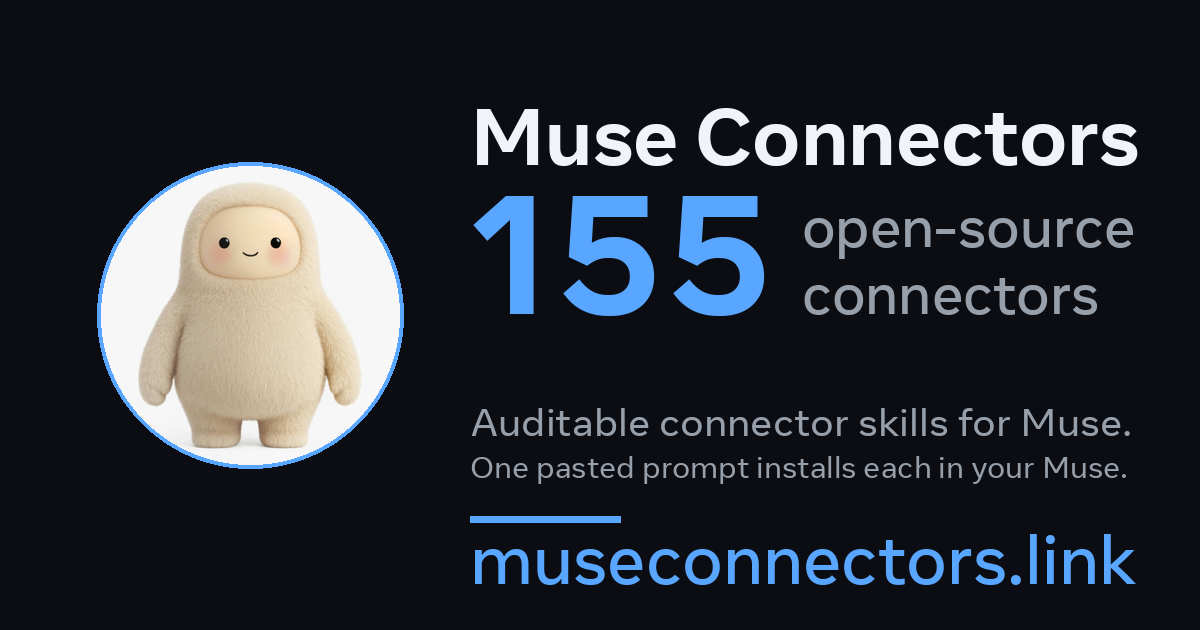
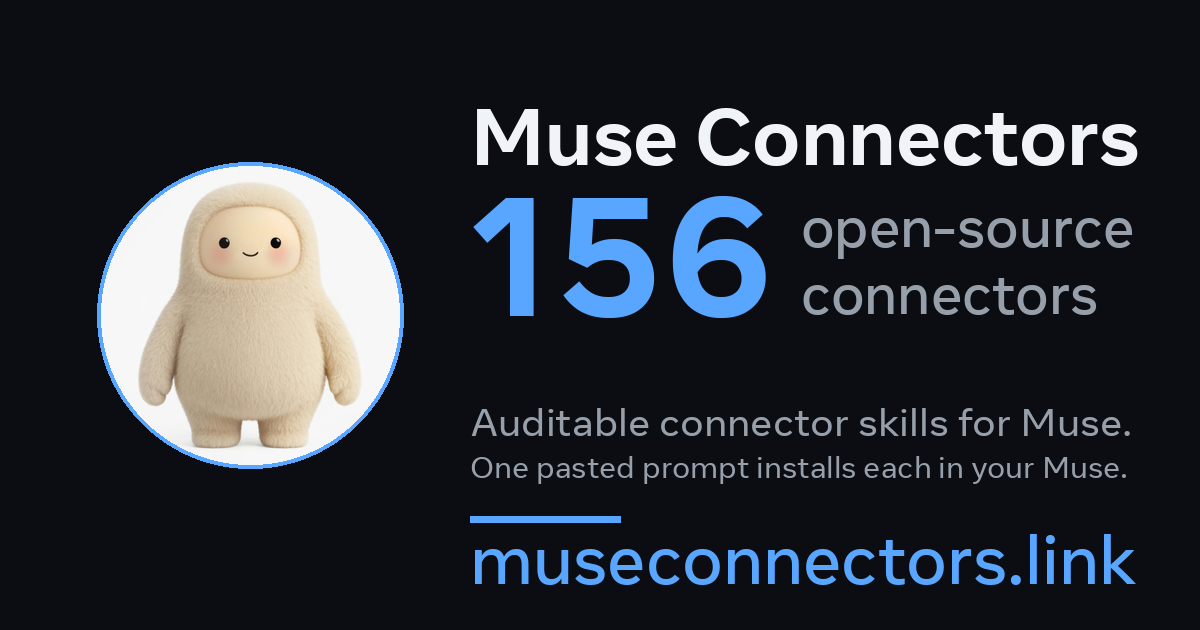
batch I: add doordash connector wrapping official dd-cli (156 total)

diff --git a/connectors/doordash/bin/doordash.py b/connectors/doordash/bin/doordash.py
@@ -1,0 +1,105 @@
+#!/usr/bin/env python3
+"""Thin wrapper around DoorDash's official dd-cli (github.com/doordash-oss/doordash-cli).
+
+Only invokes the real dd-cli binary installed by the user; never reimplements it.
+Order submission is confirm-gated: any passthrough containing submit-like verbs
+requires --confirm carrying the exact order total from the price preview.
+"""
+import json
+import os
+import re
+import shutil
+import subprocess
+import sys
+
+SUBMIT_PATTERN = re.compile(r"submit|place-order", re.IGNORECASE)
+
+
+def fail(msg):
+    print(json.dumps({"ok": False, "error": msg}))
+    sys.exit(1)
+
+
+def ddcli_path():
+    p = shutil.which("dd-cli")
+    if not p:
+        fail("dd-cli not found on PATH. Install it from https://github.com/doordash-oss/doordash-cli "
+             "(releases page, verify the SHA256 checksum) and run `dd-cli login` first.")
+    return p
+
+
+def run_ddcli(args):
+    try:
+        proc = subprocess.run([ddcli_path()] + args, capture_output=True, text=True, timeout=120)
+    except subprocess.TimeoutExpired:
+        fail("dd-cli timed out after 120s")
+    return proc
+
+
+def cmd_auth(_args):
+    ddcli_path()
+    authed = bool(os.environ.get("DD_CLI_ACCESS_TOKEN"))
+    # A cheap, documented read to probe the session; failure text is surfaced, not hidden.
+    probe = run_ddcli(["search", "--query", "coffee", "--help"])
+    print(json.dumps({
+        "ok": True,
+        "dd_cli": ddcli_path(),
+        "access_token_env": authed,
+        "note": "binary present; " + ("DD_CLI_ACCESS_TOKEN is set" if authed else
+                 "no DD_CLI_ACCESS_TOKEN in env: run `dd-cli login` on this machine, or export a token via `dd-cli export-token` elsewhere"),
+        "probe_help_rc": probe.returncode,
+    }))
+
+
+def cmd_search(args):
+    if not args.get("query"):
+        fail("search requires --query")
+    # dd-cli >= v0.2.2 requires --intent on all tool-backed commands.
+    proc = run_ddcli(["search", "--intent", "muse-connectors: search restaurants",
+                      "--query", args["query"]])
+    print(json.dumps({"ok": proc.returncode == 0, "stdout": proc.stdout[-4000:], "stderr": proc.stderr[-1000:]}))
+
+
+def cmd_history(_args):
+    # dd-cli >= v0.2.2 requires --intent on all tool-backed commands.
+    proc = run_ddcli(["order", "history", "--intent",
+                      "muse-connectors: read order history"])
+    print(json.dumps({"ok": proc.returncode == 0, "stdout": proc.stdout[-4000:], "stderr": proc.stderr[-1000:]}))
+
+
+def cmd_run(args):
+    passthrough = args.get("passthrough", [])
+    confirm = args.get("confirm")
+    joined = " ".join(passthrough)
+    if SUBMIT_PATTERN.search(joined) and not confirm:
+        fail("refusing to submit an order without --confirm carrying the exact order total from the price preview")
+    proc = run_ddcli(passthrough)
+    print(json.dumps({"ok": proc.returncode == 0, "stdout": proc.stdout[-4000:], "stderr": proc.stderr[-1000:]}))
+
+
+def parse(argv):
+    if not argv or argv[0] in ("-h", "--help"):
+        print(__doc__ + "\ncommands: auth | search --query Q | history | run [--confirm TEXT] -- <dd-cli args>")
+        return
+    cmd, rest = argv[0], argv[1:]
+    args = {"passthrough": [], "confirm": None, "query": None}
+    i = 0
+    passthrough_mode = False
+    while i < len(rest):
+        t = rest[i]
+        if t == "--":
+            passthrough_mode = True
+        elif passthrough_mode:
+            args["passthrough"].append(t)
+        elif t == "--confirm" and i + 1 < len(rest):
+            args["confirm"] = rest[i + 1]; i += 1
+        elif t == "--query" and i + 1 < len(rest):
+            args["query"] = rest[i + 1]; i += 1
+        else:
+            fail(f"unknown flag: {t}")
+        i += 1
+    {"auth": cmd_auth, "search": cmd_search, "history": cmd_history, "run": cmd_run}.get(cmd, lambda a: fail(f"unknown command: {cmd}"))(args)
+
+
+if __name__ == "__main__":
+    parse(sys.argv[1:])

diff --git a/connectors/doordash/SKILL.md b/connectors/doordash/SKILL.md
@@ -1,0 +1,57 @@
+---
+name: "doordash"
+description: "Order food and groceries from DoorDash via the official dd-cli (built for AI agents). Trigger phrases: doordash, order food, order lunch, food delivery, grocery order, dd-cli."
+metadata: { "includeInPrompt": true }
+tagline: "Order DoorDash food and groceries from the terminal with the official agent-first dd-cli."
+catalog_auth: "dd-cli login (waitlist-approved DoorDash account; US/Canada) or DD_CLI_ACCESS_TOKEN for headless use"
+catalog_hosts: ["github.com"]
+---
+
+# DoorDash
+
+## Purpose
+Order food and grocery delivery from DoorDash through `dd-cli`, DoorDash's official command-line tool, which DoorDash built specifically to be driven by AI agents with shell access. Reach for this when the user wants to order lunch, dinner, groceries, or anything else DoorDash delivers, without opening the app.
+
+## Tooling
+All commands go through `bin/doordash.py`, a thin wrapper around the official `dd-cli` binary:
+
+```bash
+bin/doordash.py auth                                  # verify dd-cli is installed and logged in
+bin/doordash.py search --query "ramen near me"        # search restaurants and stores
+bin/doordash.py history                               # past orders and receipts
+bin/doordash.py run -- <dd-cli args>                  # passthrough to dd-cli for everything else
+```
+
+`run` passes arguments straight to `dd-cli`, so any capability in the official README works: menu browsing, cart add/remove/view/delete, building a cart from a shopping list, promo codes, order price preview, tip, credits, scheduling (ASAP or ahead), pickup or delivery, priority or standard speed, work-benefit budgets, and re-creating a past order. If an argument looks like order submission (`submit`, `place-order`), the wrapper refuses unless `--confirm` is provided. Note: dd-cli v0.2.2+ requires `--intent "<who + goal>"` on tool-backed commands; add it to your `run` invocations.
+
+Typical flow:
+
+```bash
+bin/doordash.py search --query "burrito bowl near me"
+bin/doordash.py run -- menu --help                    # see current menu/cart subcommands
+bin/doordash.py run -- order preview --intent "lunch order" --help   # preview pricing before spending
+bin/doordash.py run -- order submit --intent "lunch order" --confirm "yes, $24.17 total to 123 Main St"
+```
+
+## Auth
+- Provider id: `doordash` (no API key is collected; auth lives in the user's own `dd-cli` session)
+- Collection: none in-repo. The user must:
+  1. Join the waitlist at https://forms.gle/gvCQZvu9C1EKA6aM6 (US/Canadian developers; full functionality needs an approved account).
+  2. Download `dd-cli` from the Releases page at https://github.com/doordash-oss/doordash-cli (`dd-cli-v<version>-darwin-arm64.tar.gz` for macOS Apple Silicon, `dd-cli-v<version>-linux-amd64.tar.gz` for glibc Linux x86_64), verify the published SHA256 checksum, extract, and follow `quickstart.txt`.
+  3. Run `dd-cli login` once. On headless machines (containers, cloud VMs) with no OS keychain, skip login and set `DD_CLI_ACCESS_TOKEN` to a token from `dd-cli export-token` on a signed-in machine.
+- Allowed hosts: `github.com` (release download; `dd-cli` manages its own DoorDash API traffic).
+- Status check: `bin/doordash.py auth` (must return `"ok": true`: binary present and a login session or `DD_CLI_ACCESS_TOKEN` detected).
+
+## Operating Rules
+1. Reads (`auth`, `search`, `history`, menu/cart inspection) need no confirmation.
+2. **Submitting an order always needs confirmation.** The wrapper refuses any submit-like passthrough unless `--confirm` is provided. Run the price preview first, show the user the itemized total (items, fees, tip) in plain words, and only submit after they approve it.
+3. Never submit an order the user did not explicitly approve, and never change the delivery address or payment method without asking.
+4. Without a waitlist-approved account, `dd-cli` installs but ordering stays locked; say so plainly instead of working around it.
+5. Never exfiltrate the session: do not print, log, or transmit `DD_CLI_ACCESS_TOKEN` or the contents of the dd-cli keychain entries.
+
+## Files
+- SKILL.md
+- bin/doordash.py
+
+## Maturity
+Draft: thin wrapper around DoorDash's official dd-cli (github.com/doordash-oss/doordash-cli); not live-tested end-to-end. The `--intent` requirement on dd-cli v0.2.2+ tool-backed commands comes from the official release notes.

diff --git a/README.md b/README.md
@@ -1,7 +1,7 @@
 # Muse Connectors
 
 [![MIT License](https://img.shields.io/badge/license-MIT-green)](LICENSE)
-[![Connectors](https://img.shields.io/badge/connectors-155-blue)](https://museconnectors.link/)
+[![Connectors](https://img.shields.io/badge/connectors-156-blue)](https://museconnectors.link/)
 [![PRs Welcome](https://img.shields.io/badge/PRs-welcome-brightgreen)](CONTRIBUTING.md)
 [![GitHub stars](https://img.shields.io/github/stars/bluman1/muse-connectors?style=social)](https://github.com/bluman1/muse-connectors/stargazers)
 
@@ -24,7 +24,7 @@ No app stores, no config files, no tokens in chat. How the one-paste install wor
 
 ## Catalog
 
-All 155 connectors, searchable with one-click install prompts, at **https://museconnectors.link/**. Each name links straight to its detail page.
+All 156 connectors, searchable with one-click install prompts, at **https://museconnectors.link/**. Each name links straight to its detail page.
 
 | Connector | What it does |
 |---|---|
@@ -61,6 +61,7 @@ All 155 connectors, searchable with one-click install prompts, at **https://muse
 | [DigitalOcean](https://museconnectors.link/#digitalocean) | List your DigitalOcean droplets and domains. Read-only. |
 | [Discord](https://museconnectors.link/#discord) | Read servers and channels, send messages and DMs. |
 | [DocuSign](https://museconnectors.link/#docusign) | Draft and send signature envelopes (demo environment by default), check envelope status, and download signed documents. |
+| [DoorDash](https://museconnectors.link/#doordash) | Order DoorDash food and groceries from the terminal with the official agent-first dd-cli. |
 | [Dub](https://museconnectors.link/#dub) | Create short links, read analytics, track conversions. |
 | [ecobee](https://museconnectors.link/#ecobee) | Thermostat runtime history and energy reports, plus temperature holds with confirmation. |
 | [Ecovacs](https://museconnectors.link/#ecovacs) | Control Ecovacs DEEBOT robot vacuums through the official Ecovacs Open Platform: list bound robots, read robot state and battery, start/pause/resume/stop cleaning, send the robot back to its dock, and set the sweep/mop work mode. Use when the user mentions their DEEBOT or robot vacuum. |
